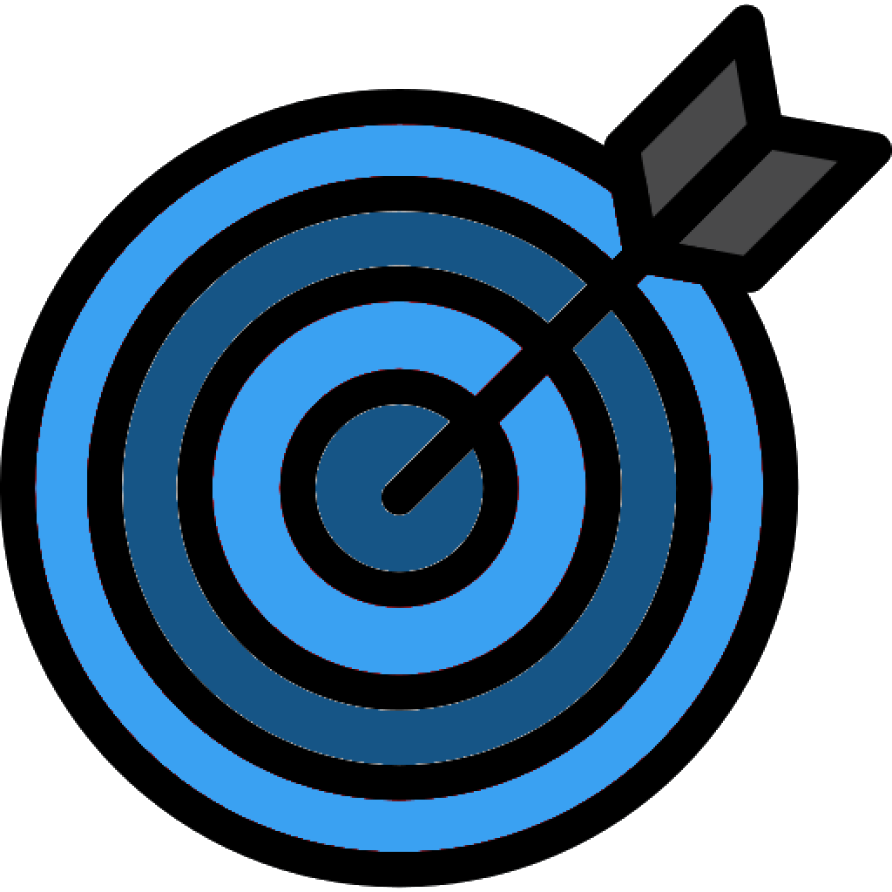
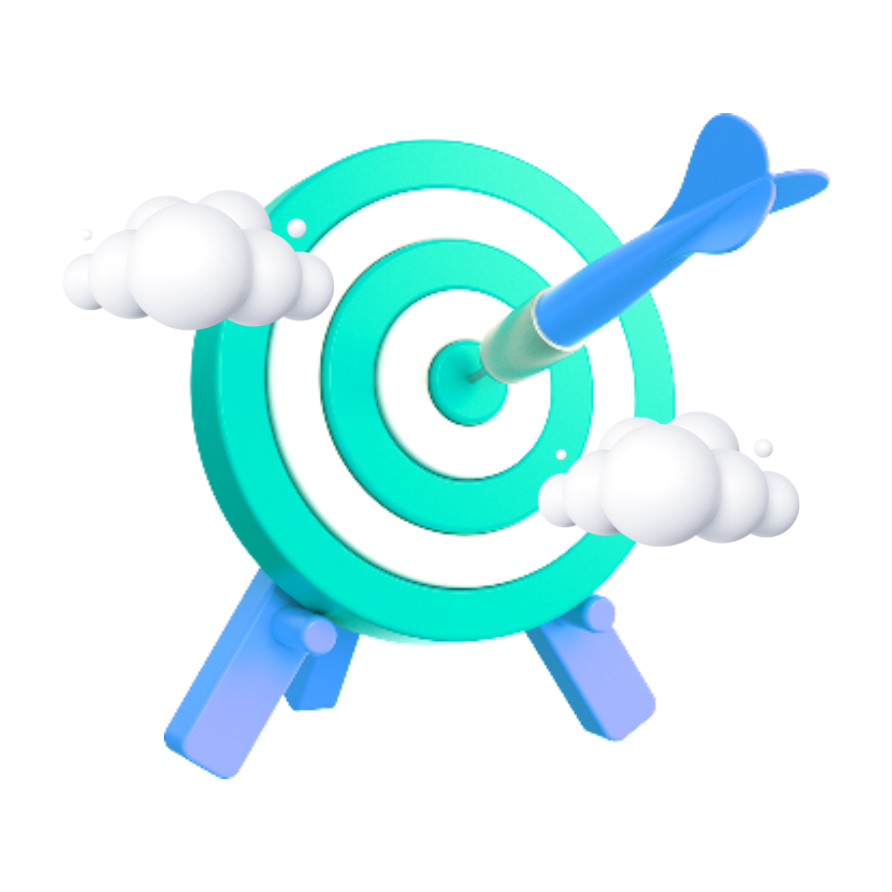
1.0
- Finished styles.
- Changed name.
- New icon and splash screen.

diff --git a/src/screens/Habits/index.js b/src/screens/Habits/index.js
@@ -1,7 +1,7 @@
 import {
     RootView, HabitsImage, ImageView, FooterLicenseView, LicenseText, CenterView, HeaderView, HeaderTitle, DefaultView, DefaultHorizontalView,
     BodyText, HabitsView, HabitsScrollView, SuggestionTextView, AlphaBg, ChecksDataContainer, CloseView, ChecksDataHeader, ChecksDataTitle,
-    ChecksDataBody, ChecksDataScroll, ChecksOptionView, ChecksDataOption, CheckName
+    ChecksDataBody, ChecksDataScroll, ChecksOptionView, ChecksDataOption, CheckName, AnimatedShowMoreView
 } from './styles';
 import habitsBg from '../../assets/habitsBg.png'
 import { useEffect, useState } from 'react';
@@ -505,70 +505,86 @@ export default function Habits({ navigation }) {
                         </BodyText>
 
                         <HabitsScrollView style={{ maxHeight: RFPercentage(50) }}>
-                            <ShowMore
-                                icon='book-open'
-                                title='Leitura'
-                                bodyComponent={suggetionsComponent(
-                                    {
-                                        icon: [
-                                            'trending-up',
-                                            'users',
-                                            'smile',
-                                            'heart',
-                                        ],
-                                        body: [
-                                            'Aumenta a capacidade cognitiva',
-                                            'Aumento da empatia',
-                                            'Melhora o bem-estar emocional além de ajudar a combater a ansiedade e melhorar o sono',
-                                            'Ajuda a reduzir a pressão arterial e risco de doenças cardíacas',
-                                        ]
-                                    }
-                                )}
-                            />
 
-                            <ShowMore
-                                icon='pause'
-                                title='Parar de fumar'
-                                bodyComponent={suggetionsComponent(
-                                    {
-                                        icon: [
-                                            'activity',
-                                            'wind',
-                                            'smile',
-                                            'shield',
-                                        ],
-                                        body: [
-                                            'Melhoria da saúde cardiovascular',
-                                            'Melhoria da saúde respiratória',
-                                            'Benefícios estéticos além de economia financeira',
-                                            'Proteção para as pessoas ao redor',
-                                        ]
-                                    }
-                                )}
-                            />
+                            <AnimatedShowMoreView
+                                animation={"fadeInLeft"}
+                                delay={500}
+                            >
+                                <ShowMore
+                                    icon='book-open'
+                                    title='Leitura'
+                                    bodyComponent={suggetionsComponent(
+                                        {
+                                            icon: [
+                                                'trending-up',
+                                                'users',
+                                                'smile',
+                                                'heart',
+                                            ],
+                                            body: [
+                                                'Aumenta a capacidade cognitiva',
+                                                'Aumento da empatia',
+                                                'Melhora o bem-estar emocional além de ajudar a combater a ansiedade e melhorar o sono',
+                                                'Ajuda a reduzir a pressão arterial e risco de doenças cardíacas',
+                                            ]
+                                        }
+                                    )}
+                                />
+                            </AnimatedShowMoreView>
 
-                            <ShowMore
-                                icon='shopping-cart'
-                                title='Dieta equilibrada'
-                                bodyComponent={suggetionsComponent(
-                                    {
-                                        icon: [
-                                            'activity',
-                                            'umbrella',
-                                            'shield',
-                                            'smile',
-                                            'moon'
-                                        ],
-                                        body: [
-                                            'Controle de peso',
-                                            'Prevenção de doenças crônicas',
-                                            'Melhoria do sistema imunológico',
-                                            'Melhoria do humor e do bem-estar geral',
-                                            'Melhoria da saúde mental e do sono'
-                                        ]
-                                    }
-                                )}
-                            />
+                            <AnimatedShowMoreView
+                                animation={"fadeInLeft"}
+                                delay={900}
+                            >
+                                <ShowMore
+                                    icon='pause'
+                                    title='Parar de fumar'
+                                    bodyComponent={suggetionsComponent(
+                                        {
+                                            icon: [
+                                                'activity',
+                                                'wind',
+                                                'smile',
+                                                'shield',
+                                            ],
+                                            body: [
+                                                'Melhoria da saúde cardiovascular',
+                                                'Melhoria da saúde respiratória',
+                                                'Benefícios estéticos além de economia financeira',
+                                                'Proteção para as pessoas ao redor',
+                                            ]
+                                        }
+                                    )}
+                                />
+                            </AnimatedShowMoreView>
+
+                            <AnimatedShowMoreView
+                                animation={"fadeInLeft"}
+                                delay={1200}
+                            >
+                                <ShowMore
+                                    icon='shopping-cart'
+                                    title='Dieta equilibrada'
+                                    bodyComponent={suggetionsComponent(
+                                        {
+                                            icon: [
+                                                'activity',
+                                                'umbrella',
+                                                'shield',
+                                                'smile',
+                                                'moon'
+                                            ],
+                                            body: [
+                                                'Controle de peso',
+                                                'Prevenção de doenças crônicas',
+                                                'Melhoria do sistema imunológico',
+                                                'Melhoria do humor e do bem-estar geral',
+                                                'Melhoria da saúde mental e do sono'
+                                            ]
+                                        }
+                                    )}
+                                />
+                            </AnimatedShowMoreView>
 
                         </HabitsScrollView>
 

diff --git a/src/screens/Home/index.js b/src/screens/Home/index.js
@@ -2,25 +2,28 @@ import {
     MainContainer, Title, StatusBar, StartView, TitleContainer, MainImage, Text, CenterView, CenterTitle, CenterGroup, DefaultView, ChecksBg, CheckFrame, DatesFrame, DatesHeader,
     DatesTitle, IconAnimationLoop, CheckHeader, TitleHeaderCheck, ChecksScroll, ParentChecksView, IconShakeLoop, GroupHabitsView, GroupHabitsHeader, GroupCheckTitle, GroupCheckHeader, GroupHabitsBody,
     GroupCheckView, GroupHabitsTitle, GroupCheckBody, GroupCheckHorizontalView, InfoCheckBody, GroupCheckParentView, GroupCheckDataInfo, Line, HeaderTable, HeaderTableText, TouchableDefault, NoneCheckView,
-    NoneCheckMessage, NoneCheckTitle, NoneCheckIconView, TitleContainerHeader
+    NoneCheckMessage, NoneCheckTitle, NoneCheckIconView, TitleContainerHeader, RightHeaderIconView, RightBodyIconView, CenterHeader, CenterBody, TextBody, RightHeaderIconAnimation
 } from "./styles";
 import { useEffect } from "react";
 import THEME from "../../theme";
 import { useNavigation } from "@react-navigation/native";
 import { MaterialIcons } from "@expo/vector-icons"
 import bg from '../../assets/background.png';
-import target from '../../assets/target.png';
 import { RFPercentage } from "react-native-responsive-fontsize";
 import AsyncStorage from "@react-native-async-storage/async-storage";
 import { useState } from "react";
 import { LayoutAnimation } from "react-native";
 
 export default function Home() {
+    // array que armazena objetos referente aos CheckBox's pendentes
     const [checksToday, setChecksToday] = useState([]);
+    // array que armazena objetos referente aos CheckBox's atrasados
     const [checksLate, setChecksLate] = useState([]);
     const [showing, setShowing] = useState();
+    // states para controlar a expansão dos componentes
     const [latesShowing, setLatesShowing] = useState([-1, -1]);
     const [pendingShowing, setPendingShowing] = useState([-1, -1]);
+    // navegação entre telas
     const navigation = useNavigation();
 
     // restaura os states quando é desfocada
@@ -300,23 +303,61 @@ export default function Home() {
                     </TitleContainer>
 
                     <CenterGroup>
-                        <CenterView onTouchEnd={() => go('Goals')} animation={'fadeInDown'} delay={2300}>
-                            <CenterTitle
-                                animation={'fadeInDown'}
-                                duration={1500}
-                                delay={2600}>
-                                METAS
-                            </CenterTitle>
-                            <MaterialIcons color={THEME.COLORS.TEXT} size={RFPercentage(3.4)} name="add-task" />
+                        <CenterView animation={'fadeInDown'} delay={2300}>
+                            <CenterHeader onPressOut={() => go('Goals')}>
+                                <CenterTitle
+                                    animation={'fadeInDown'}
+                                    duration={1500}
+                                    delay={2600}>
+                                    METAS
+                                </CenterTitle>
+                                <RightHeaderIconView>
+                                    <RightHeaderIconAnimation
+                                        animation={"bounceIn"}
+                                        direction={"alternate"}
+                                        iterationCount={"infinite"}
+
+
+                                    >
+                                        <MaterialIcons color={THEME.COLORS.PRIMARY900} size={RFPercentage(3.4)} name="fast-forward" />
+                                    </RightHeaderIconAnimation>
+                                </RightHeaderIconView>
+                            </CenterHeader>
+                            <CenterBody>
+                                <TextBody>
+                                    "Se você traçar metas absurdamente altas e falhar, seu fracasso será muito melhor que o sucesso de todos." - James Cameron
+                                </TextBody>
+                                <RightBodyIconView>
+                                    <MaterialIcons color={THEME.COLORS.ALERT800} size={RFPercentage(3.4)} name="add-task" />
+                                </RightBodyIconView>
+                            </CenterBody>
                         </CenterView>
-                        <CenterView onTouchEnd={() => go('Habits')} animation={'fadeInDown'} delay={2300}>
-                            <CenterTitle
-                                animation={'fadeInDown'}
-                                duration={1500}
-                                delay={2600}>
-                                HÁBITOS
-                            </CenterTitle>
-                            <MaterialIcons color={THEME.COLORS.TEXT} size={RFPercentage(3.4)} name="menu-book" />
+                        <CenterView animation={'fadeInDown'} delay={2300}>
+                            <CenterHeader onPressOut={() => go('Habits')}>
+                                <CenterTitle
+                                    animation={'fadeInDown'}
+                                    duration={1500}
+                                    delay={2600}>
+                                    HÁBITOS
+                                </CenterTitle>
+                                <RightHeaderIconView>
+                                    <RightHeaderIconAnimation
+                                        animation={"bounceIn"}
+                                        direction={"alternate"}
+                                        iterationCount={"infinite"}
+                                    >
+                                        <MaterialIcons color={THEME.COLORS.PRIMARY900} size={RFPercentage(3.4)} name="fast-forward" />
+                                    </RightHeaderIconAnimation>
+                                </RightHeaderIconView>
+                            </CenterHeader>
+                            <CenterBody>
+                                <TextBody>
+                                    "Nós somos o que repetidamente fazemos. A excelência, então, não é um feito, mas um hábito." - Aristóteles
+                                </TextBody>
+                                <RightBodyIconView>
+                                    <MaterialIcons color={THEME.COLORS.ALERT800} size={RFPercentage(3.4)} name="menu-book" />
+                                </RightBodyIconView>
+                            </CenterBody>
                         </CenterView>
                     </CenterGroup>
 

diff --git a/src/screens/Home/styles.js b/src/screens/Home/styles.js
@@ -3,6 +3,43 @@ import THEME from "../../theme";
 import { RFPercentage } from "react-native-responsive-fontsize";
 import * as Animatable from 'react-native-animatable';
 
+export const RightHeaderIconAnimation = styled(Animatable.View)`
+`
+export const TextBody = styled.Text`
+    flex: 1;
+    font-size: ${RFPercentage(2.3)}px;
+    text-align: center;
+    color: ${THEME.COLORS.PRIMARY900};
+    font-family: ${THEME.FONTS.MEDIUM};
+    padding: ${RFPercentage(1)}px ${RFPercentage(1.7)}px;
+    line-height: ${RFPercentage(4)}px;
+`
+export const CenterBody = styled.View`
+    flex: 1;
+    flex-direction: row;
+    align-items: center;
+    justify-content: center;
+    background-color: ${THEME.COLORS.ALERT800};
+`
+export const CenterHeader = styled.TouchableOpacity`
+    flex-direction: row;
+    align-items: center;
+    justify-content: center;
+`
+export const RightBodyIconView = styled.View`
+    justify-content: center;
+    background-color: ${THEME.COLORS.PRIMARY900};
+    padding: ${RFPercentage(1)}px ${RFPercentage(5)}px;
+    border-bottom-left-radius: 7px;
+    height: 100%;
+`
+export const RightHeaderIconView = styled(Animatable.View)`
+    justify-content: center;
+    background-color: ${THEME.COLORS.ALERT800};
+    padding: ${RFPercentage(1)}px ${RFPercentage(5)}px;
+    border-top-left-radius: 7px;
+`
+
 export const NoneCheckIconView = styled(Animatable.View)`
     margin-right: ${RFPercentage(1)}px;
 `
@@ -187,27 +224,28 @@ export const DefaultView = styled.View`
 `
 
 export const CenterTitle = styled(Animatable.Text)`
-  font-family: ${THEME.FONTS.MEDIUM};
-  color: ${THEME.COLORS.TEXT};
-  font-size: ${RFPercentage(2.8)}px;  
-  `
+    flex: 1;
+    text-align: center;
+    font-family: ${THEME.FONTS.MEDIUM};
+    color: ${THEME.COLORS.ALERT800};
+    font-size: ${RFPercentage(2.8)}px;
+`
 export const CenterGroup = styled(Animatable.View)`
+    flex: 1;
     flex-direction: column;
     align-items: center;
     justify-content: center;
 `
 export const CenterView = styled(Animatable.View)`
-  flex-direction: row;
-  justify-content: space-around;
+  flex: 1;
+  flex-direction: column;
+  justify-content: center;
   align-items: center;
-  text-align: center;
-  padding: 0 ${RFPercentage(3)}px;
+  width: 100%;
   margin: ${RFPercentage(2)}px 0;
-  width: ${RFPercentage(25)}px;
-  height: ${RFPercentage(7)}px;
+  max-height: ${RFPercentage(25)}px;
   background-color: ${THEME.COLORS.PRIMARY900};
-  border-radius: 8px;
-  border: 1px solid ${THEME.COLORS.TEXT};
+  border: 2px solid ${THEME.COLORS.ALERT800};
 `
 export const MainContainer = styled.View`
     min-height: 100%;
@@ -244,7 +282,7 @@ export const TitleContainer = styled.View`
     justify-content: center;
     align-items: center;
     align-self: flex-start;
-    background-color: rgba(230, 193, 82, 0.89);
+    background-color: rgba(68, 128, 220, 0.89);
     z-index: 1000;
 `;
 export const Title = styled.Text`
@@ -258,7 +296,7 @@ export const Title = styled.Text`
 export const Text = styled(Animatable.Text)`
     font-size: ${RFPercentage(3)}px;
     text-align: center;
-    color: ${THEME.COLORS.PRIMARY900};
+    color: ${THEME.COLORS.TEXT};
     padding: ${RFPercentage(1.5)}px;
     font-family: ${THEME.FONTS.MEDIUM};
 `;

diff --git a/src/screens/Habits/styles.js b/src/screens/Habits/styles.js
@@ -3,6 +3,8 @@ import THEME from '../../theme';
 import { RFPercentage } from "react-native-responsive-fontsize";
 import * as Animatable from 'react-native-animatable';
 
+export const AnimatedShowMoreView = styled(Animatable.View)`
+`
 export const CheckName = styled.Text`
     text-align: center;
     font-size: ${RFPercentage(3)}px;
